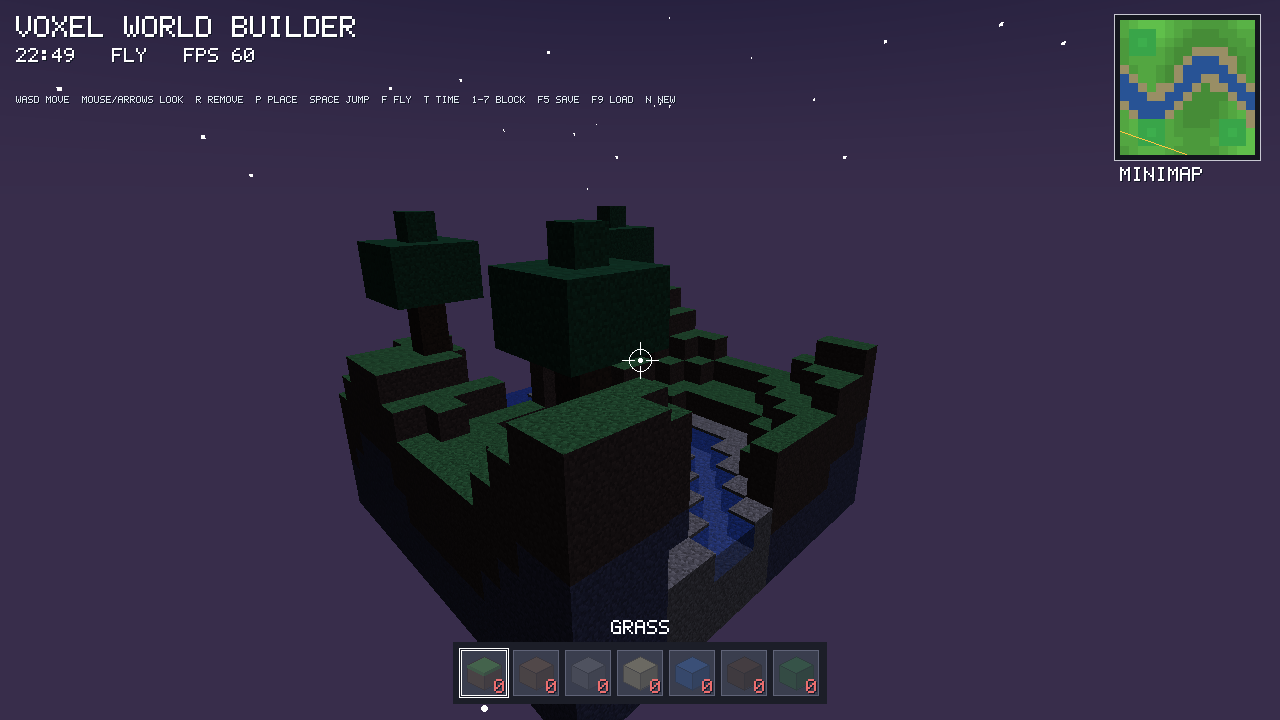
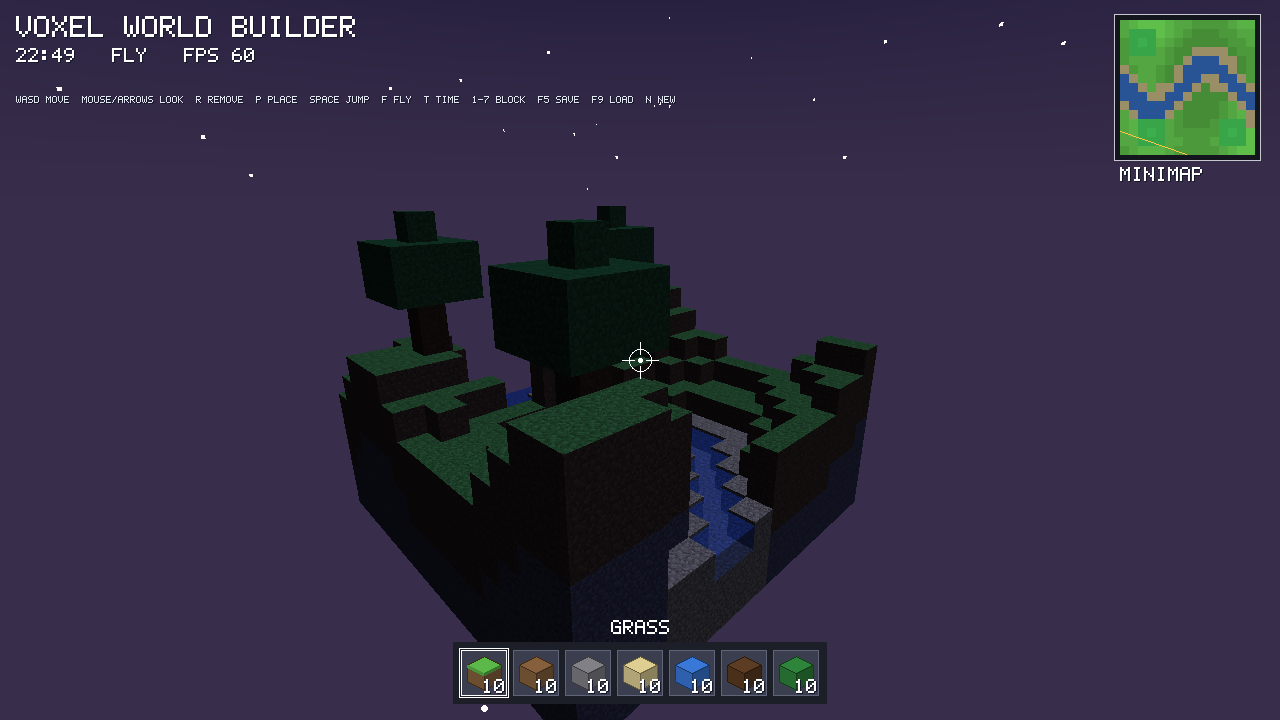
updates

Changed region(s): [[0.3438, 0.9167, 0.6562, 0.9778]]

diff --git a/src/apps/engine.cpp b/src/apps/engine.cpp
@@ -51,7 +51,10 @@ const float PLACE_TIME = 0.25f, REMOVE_TIME = 0.2f;
 // --- Global Player / Game State ---
 Player player;
 int selectedSlot = 0;
-int inventory[HOTBAR_SIZE] = {};   // blocks held per hotbar slot: removing adds one, placing uses one
+// Blocks held per hotbar slot: removing adds one, placing uses one.
+const int START_ITEMS = 10;
+int inventory[HOTBAR_SIZE] = {START_ITEMS, START_ITEMS, START_ITEMS, START_ITEMS,
+                              START_ITEMS, START_ITEMS, START_ITEMS};
 float timeOfDay = 0.12f;      // 0 = sunrise, 0.25 = noon, 0.5 = sunset
 float daySpeed = 1.0f / 240;  // one full day every 4 minutes
 float gameTime = 0.0f;
@@ -148,7 +151,7 @@ void key_callback(GLFWwindow* window, int key, int scancode, int action, int mod
     if (key == GLFW_KEY_P) placeBlock();
     if (key == GLFW_KEY_N) {
         world.clear(); world.generateTerrain(); blockAnims.clear(); meshDirty = true;
-        for (int& n : inventory) n = 0;
+        for (int& n : inventory) n = START_ITEMS;
         showToast("NEW WORLD");
     }
 }

diff --git a/README.md b/README.md
@@ -204,7 +204,7 @@ Run from the project root:
 | Space | Jump (walk mode) / up (fly mode) |
 | Left Shift | Down (fly mode) |
 | F | Toggle walk / fly |
-| R / P | Remove / place block (left / right click also work). Removing adds the block to your inventory; placing uses one |
+| R / P | Remove / place block (left / right click also work). You start with 10 of each block; removing adds one to your inventory, placing uses one |
 | 1–7 or mouse wheel | Choose block type |
 | T (hold) | Speed up time |
 | F5 / F9 | Save / load the world (`world.vxw`) |
@@ -227,6 +227,6 @@ The engine also accepts `--time 0.5 --pos X Y Z --look YAW PITCH --fly --slot N 
 - The isometric renderer's painter's algorithm (sorted by `x + y + z`) is only correct for unit cubes on a grid.
 - The pure C++ 3D renderer uses flat shading and clips only against the near plane; triangles outside the screen are discarded per pixel.
 - The OpenGL prototype needs OpenGL 3.3. Under WSL it needs WSLg (Windows 11) to open a window.
-- The inventory starts empty and is not saved with the world (F5 saves blocks only).
+- The inventory starts with 10 of every block and is not saved with the world (F5 saves blocks only).
 - Collision uses the player's bounding box against whole blocks, so there are no slopes or half blocks. Water does not flow.
 - PPM output cannot be previewed on Windows directly; use the PNG copies.
